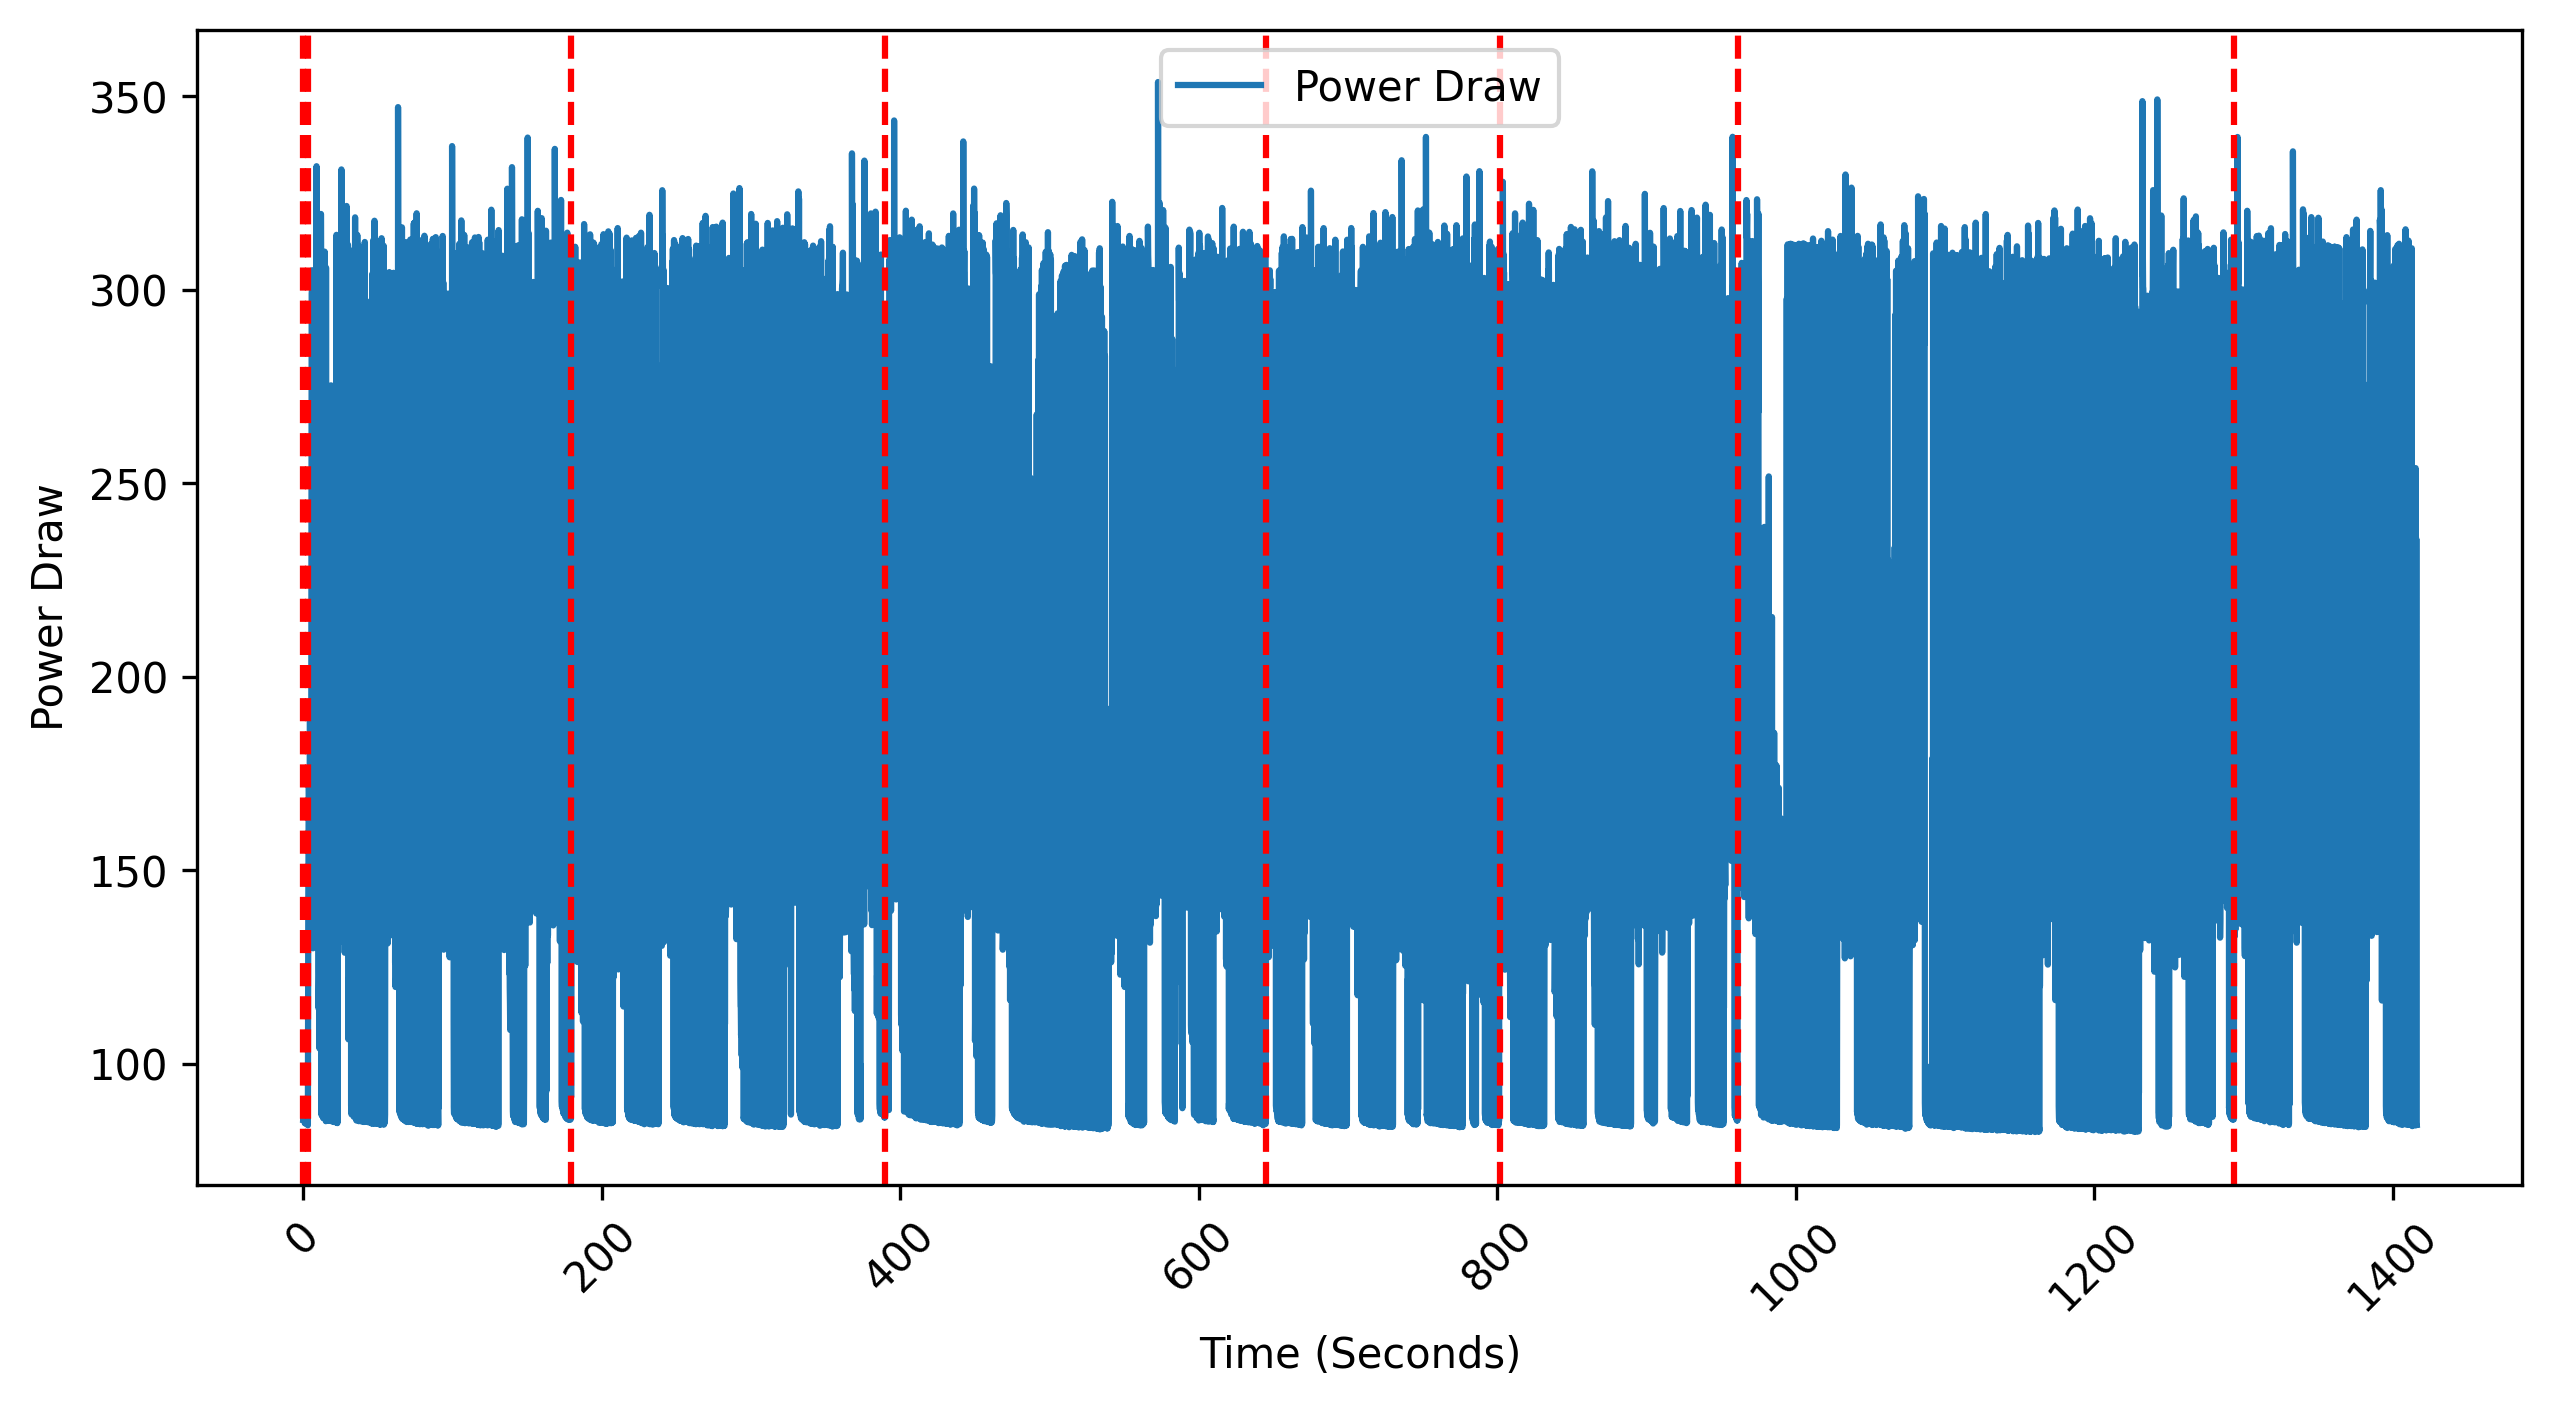
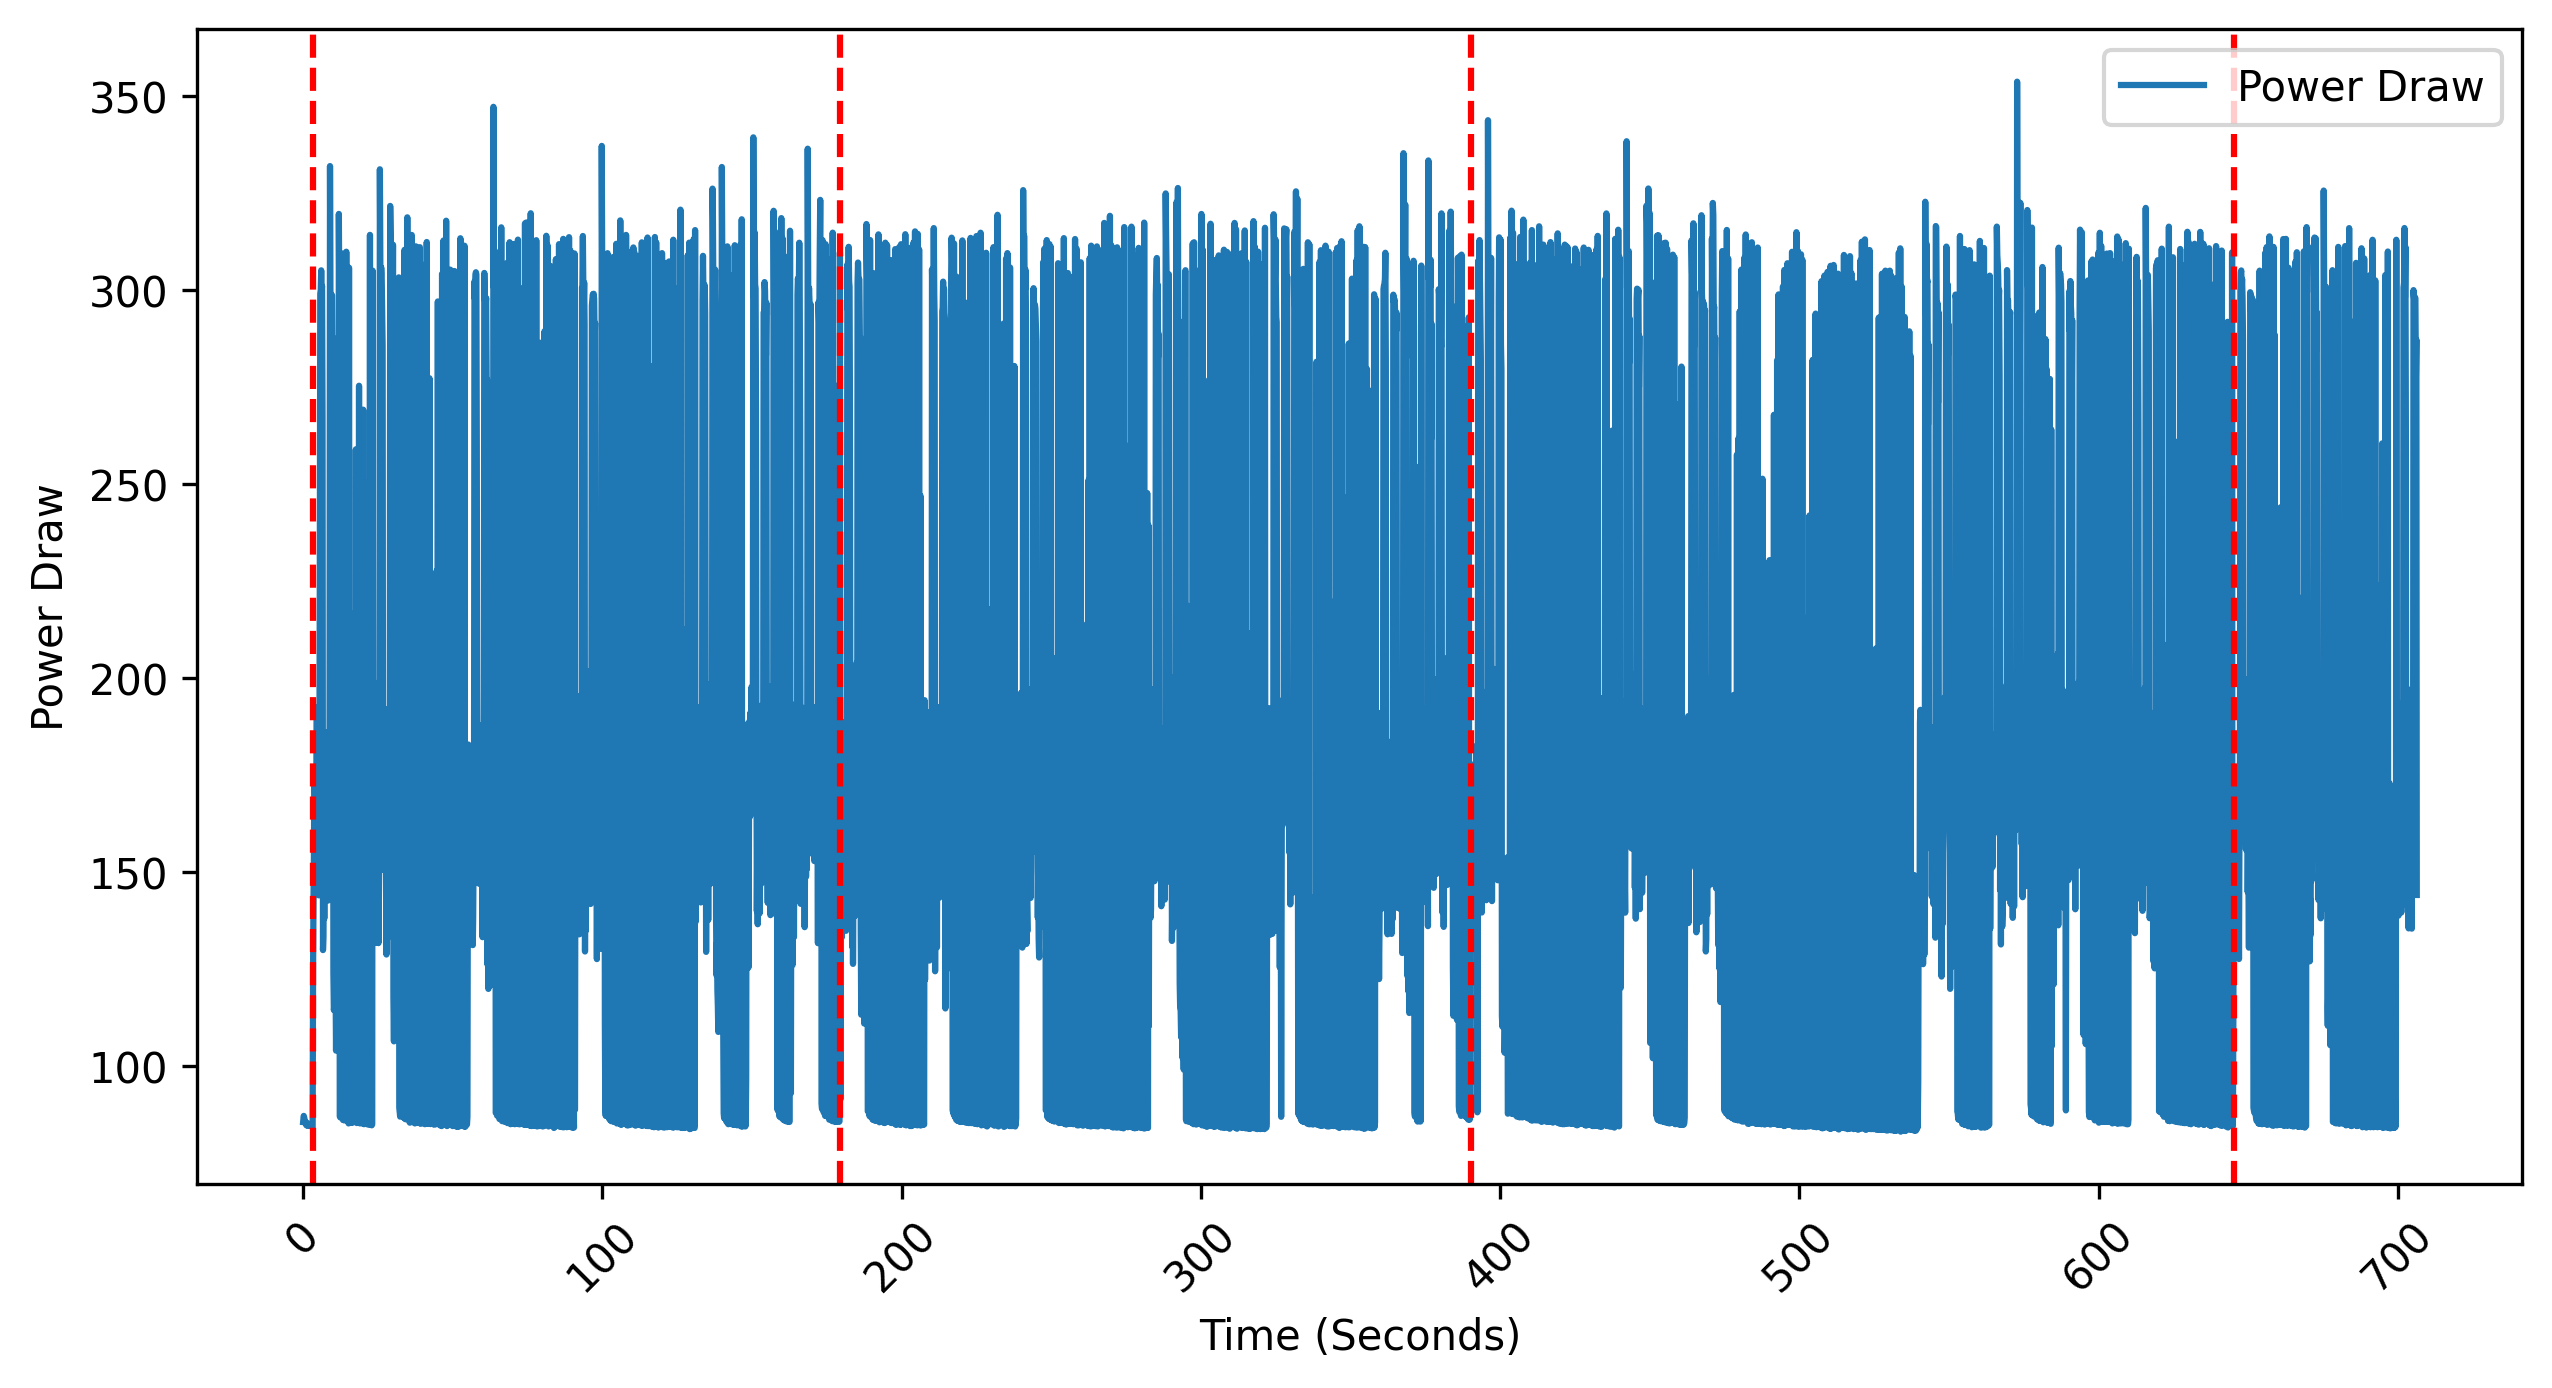
removed first vertical line from power draw plot

diff --git a/efficiency.py b/efficiency.py
@@ -370,6 +370,7 @@ if __name__ == "__main__":
         return mean, std
 
     # plot power draw over time and mark when a new document is loaded
+    # set short_flag to only print the first 5% of data (approx. 3 documents)
     def plot_power_draw(directory_path: str, short_flag: bool):
         power_directory = os.fsencode(directory_path + "power")
         for power_file in os.listdir(power_directory):
@@ -391,22 +392,22 @@ if __name__ == "__main__":
                     power_draw = float(parts[3])
                     data.append((timestamp, document, power_draw))
 
-            # Create a DataFrame
             df = pd.DataFrame(data, columns=["Timestamp", "Document", "Value"])
 
-            # Convert the timestamps to seconds since the first timestamp
+            # Convert the timestamps to seconds
             df["Time_Seconds"] = (df["Timestamp"] - df["Timestamp"].iloc[0]).dt.total_seconds()
 
-            # Plot the data
             plt.figure(figsize=(10, 5))
             plt.plot(df["Time_Seconds"], df["Value"], linestyle='-', label="Power Draw")
 
-            # Mark document changes
             prev_doc = None
+            first_change = True  # don't plot a line at the start
             for j, row in df.iterrows():
                 if row["Document"] and row["Document"] != prev_doc:
-                    plt.axvline(row["Time_Seconds"], color='r', linestyle='--')
+                    if not first_change:
+                        plt.axvline(row["Time_Seconds"], color='r', linestyle='--')
                     prev_doc = row["Document"]
+                    first_change = False
 
             plt.xlabel("Time (Seconds)")
             plt.ylabel("Power Draw")
@@ -414,7 +415,6 @@ if __name__ == "__main__":
             plt.xticks(rotation=45)
 
             save_path = directory_path + "power_draw-boxplot" + current_iter + ".png"
-            # Save the plot to a file
             plt.savefig(save_path, dpi=300, bbox_inches='tight')
             plt.close()
         return
@@ -487,26 +487,26 @@ if __name__ == "__main__":
     date_formatted = datetime.now().strftime("%Y-%m-%d_%H-%M-%S")
 
     # dir_path must end with "/"
-    dir_path = "res/efficiency/pet-md/ollama-Lamarckvergence-14B-IQ4_XS/2025-02-19_17-08-42/"
+    # dir_path = "res/efficiency/pet-md/solar-pro-preview-instruct-Q4_K_S/2025-02-12_12-10-47/"
 
-    # if exp_type == "pet_md":
-    #     dir_path = f"res/efficiency/pet-md/{mod_name}/{date_formatted}/"
-    # elif exp_type == "pet_re":
-    #     dir_path = f"res/efficiency/pet-re/{mod_name}/{date_formatted}/"
-    # else:
-    #     dir_path = None
-    #
-    # for i in range(1, total_iter + 1):
-    #     log_path = dir_path + f"power/iteration{i}.dat"
-    #     log_file = Path(log_path)
-    #     if log_file.is_file():
-    #         break
-    #     power_logger = power.PowerLogger(run_experiments, log_path, [exp_type, dir_path, mod_name, i])
-    #     power_logger.start_logging()
-    #
-    # answer_df, power_df, list_parse_errors = parse_results(dir_path, False)
-    # list_retries = parse_retries(dir_path)
-    # to_excel(dir_path, answer_df, power_df, list_parse_errors, list_retries)
-    # boxplot_from_data(dir_path, answer_df, power_df, list_parse_errors, list_retries)
-    # calc_statistics_from_dataframe(dir_path, answer_df, power_df, list_parse_errors, list_retries)
+    if exp_type == "pet_md":
+        dir_path = f"res/efficiency/pet-md/{mod_name}/{date_formatted}/"
+    elif exp_type == "pet_re":
+        dir_path = f"res/efficiency/pet-re/{mod_name}/{date_formatted}/"
+    else:
+        dir_path = None
+
+    for i in range(1, total_iter + 1):
+        log_path = dir_path + f"power/iteration{i}.dat"
+        log_file = Path(log_path)
+        if log_file.is_file():
+            break
+        power_logger = power.PowerLogger(run_experiments, log_path, [exp_type, dir_path, mod_name, i])
+        power_logger.start_logging()
+
+    answer_df, power_df, list_parse_errors = parse_results(dir_path, False)
+    list_retries = parse_retries(dir_path)
+    to_excel(dir_path, answer_df, power_df, list_parse_errors, list_retries)
+    boxplot_from_data(dir_path, answer_df, power_df, list_parse_errors, list_retries)
+    calc_statistics_from_dataframe(dir_path, answer_df, power_df, list_parse_errors, list_retries)
     plot_power_draw(dir_path, True)
